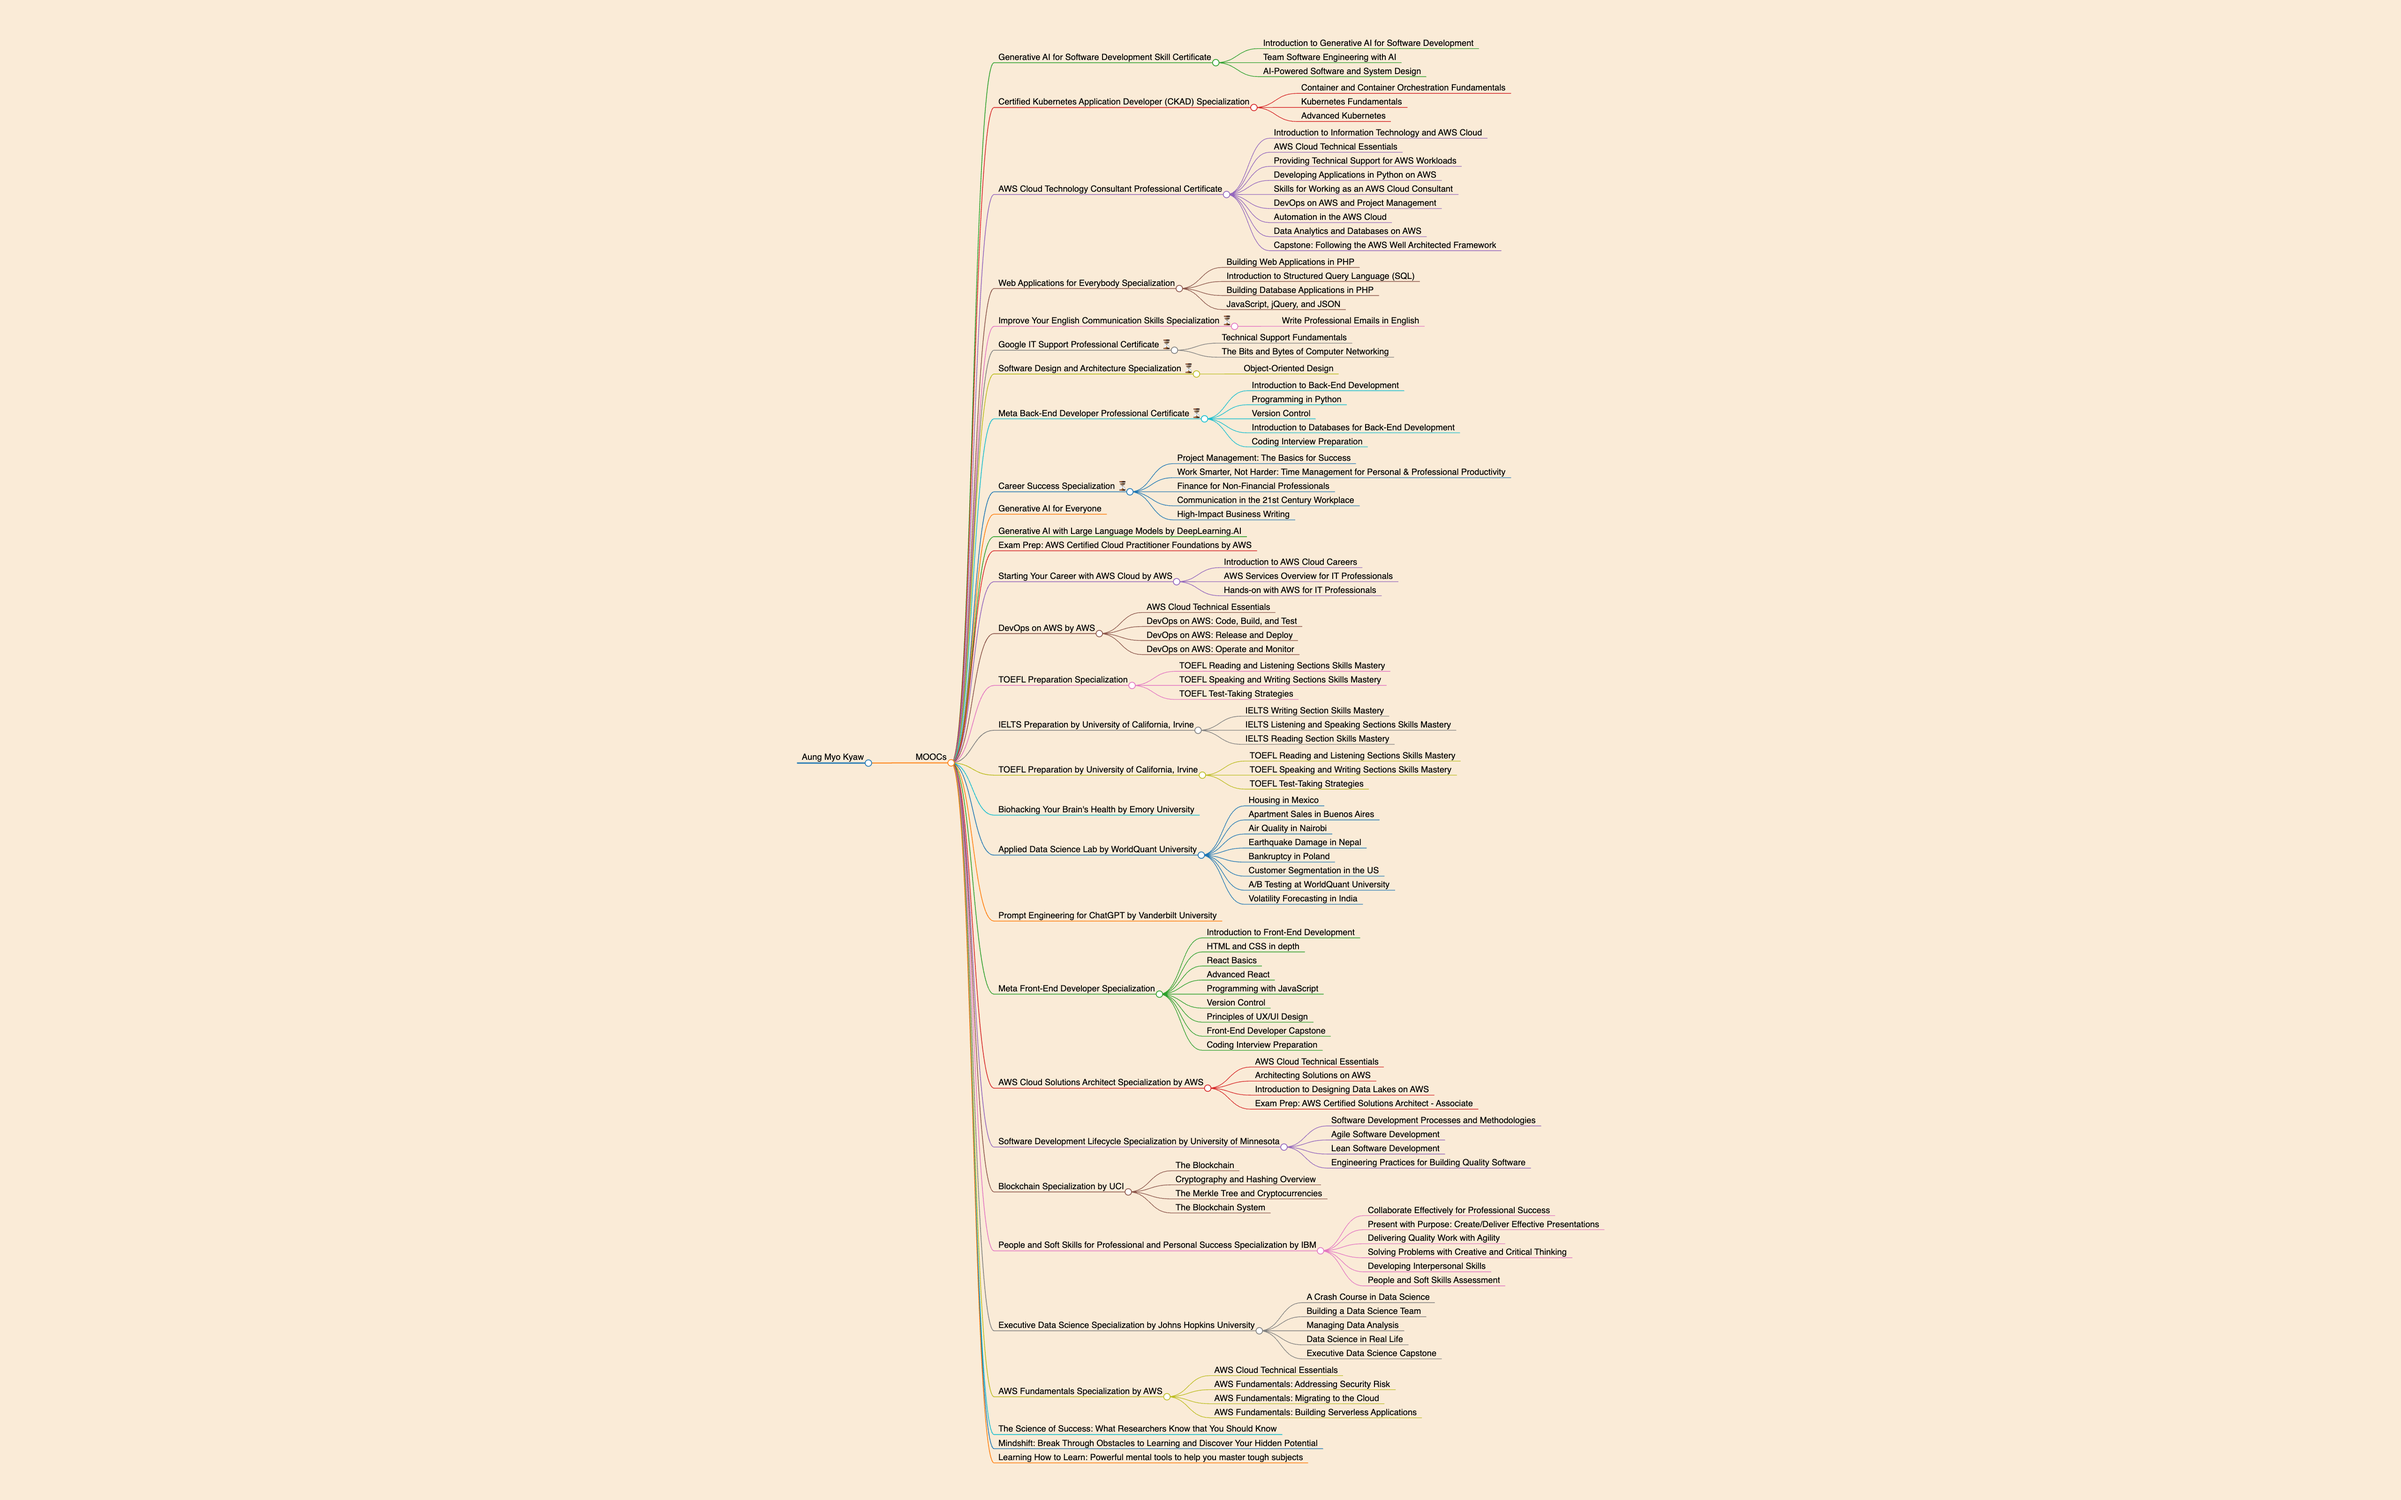
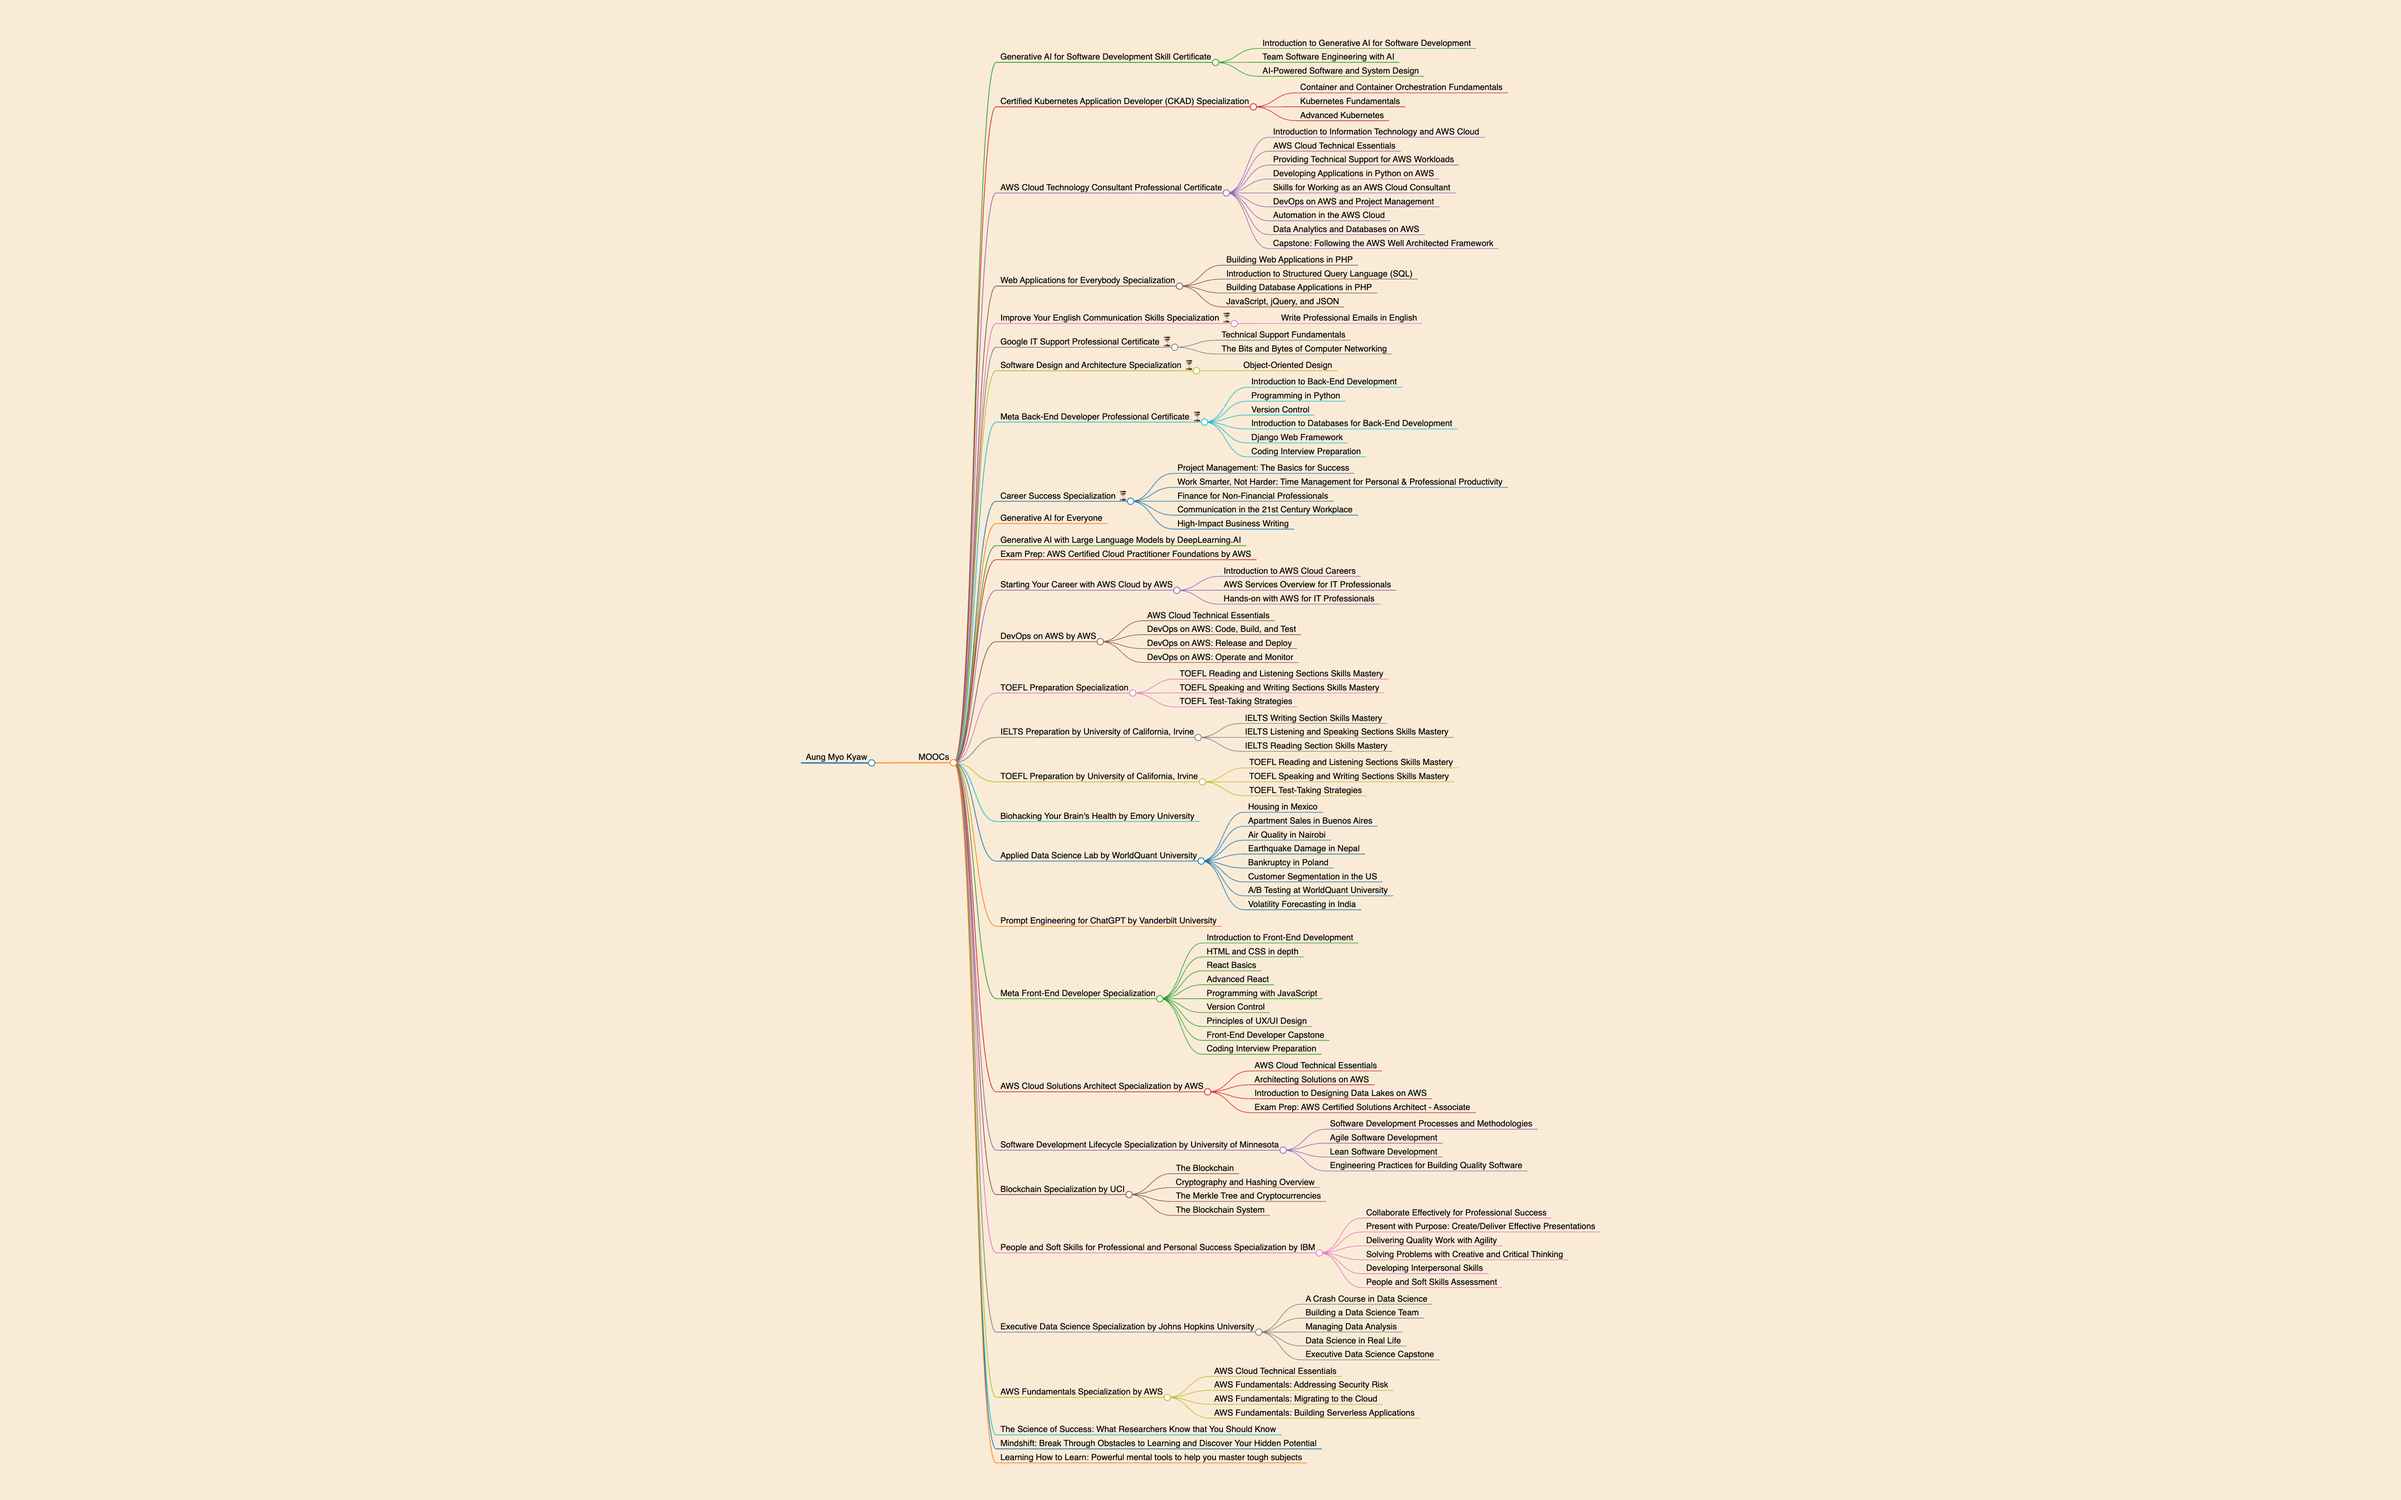
feat: update

Changed region(s): [[0.375, 0.0312, 0.6562, 0.9688]]

diff --git a/README.md b/README.md
@@ -73,6 +73,7 @@ markmap:
 - [Programming in Python](https://www.coursera.org/account/accomplishments/certificate/SCUDHLQRHSCJ)
 - [Version Control](https://www.coursera.org/account/accomplishments/certificate/ZGLGS7UQPMVE)
 - [Introduction to Databases for Back-End Development](https://www.coursera.org/account/accomplishments/certificate/SK3UDFBK4APY)
+- [Django Web Framework](https://www.coursera.org/account/accomplishments/certificate/LRWM3LRL91U7)
 - [Coding Interview Preparation](https://www.coursera.org/account/accomplishments/certificate/DHWSJ3JJKMEV)
 
 ### [Career Success Specialization ⏳](#)
